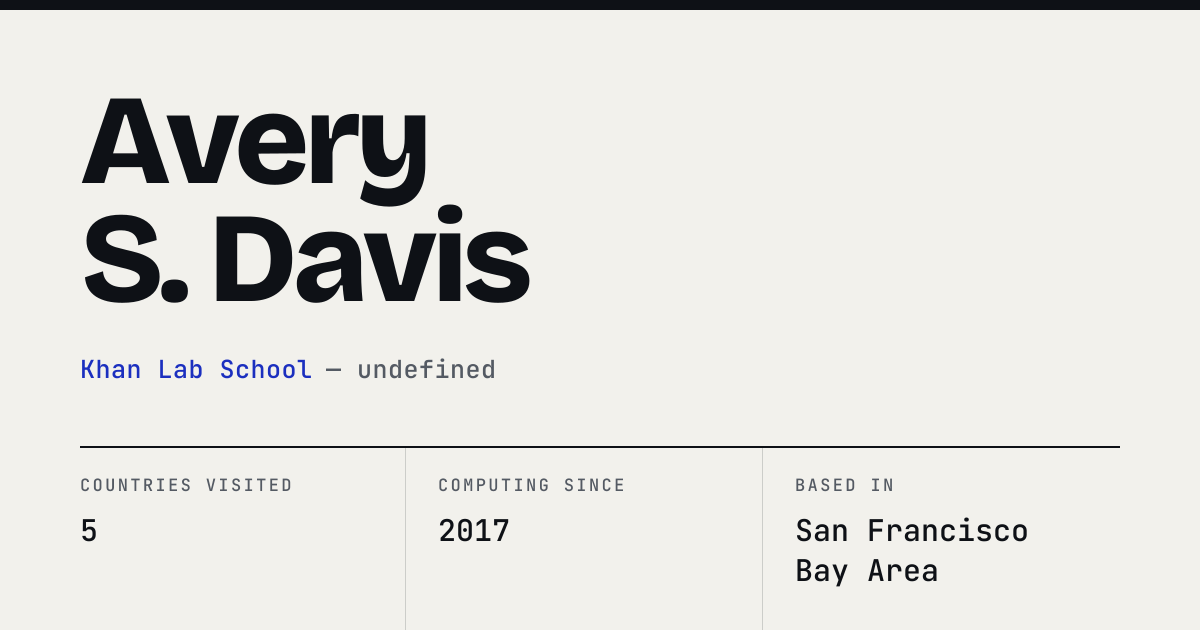
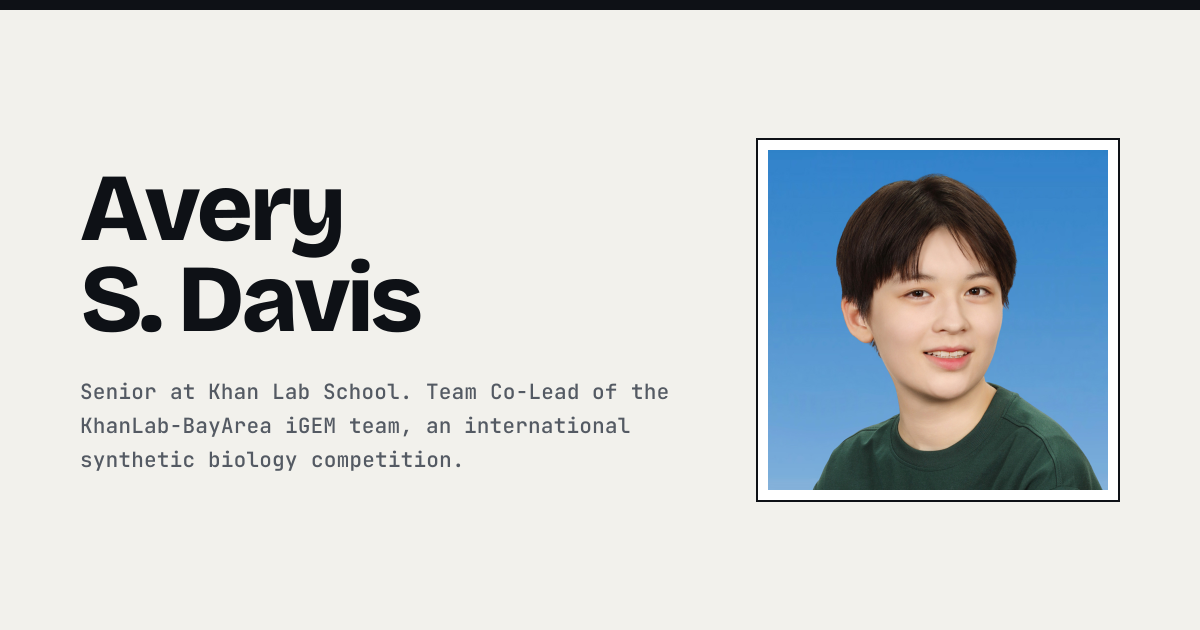
thumbnail

diff --git a/src/components/Template/Hero.tsx b/src/components/Template/Hero.tsx
@@ -19,10 +19,7 @@ export default function Hero() {
               {profile.employer}
             </a>
             , leading the KhanLab-BayArea{' '}
-            <a
-              href="https://igem.org/"
-              className="hero-highlight"
-            >
+            <a href="https://igem.org/" className="hero-highlight">
               iGEM
             </a>{' '}
             team, which competes internationally in genetic engineering, and my
